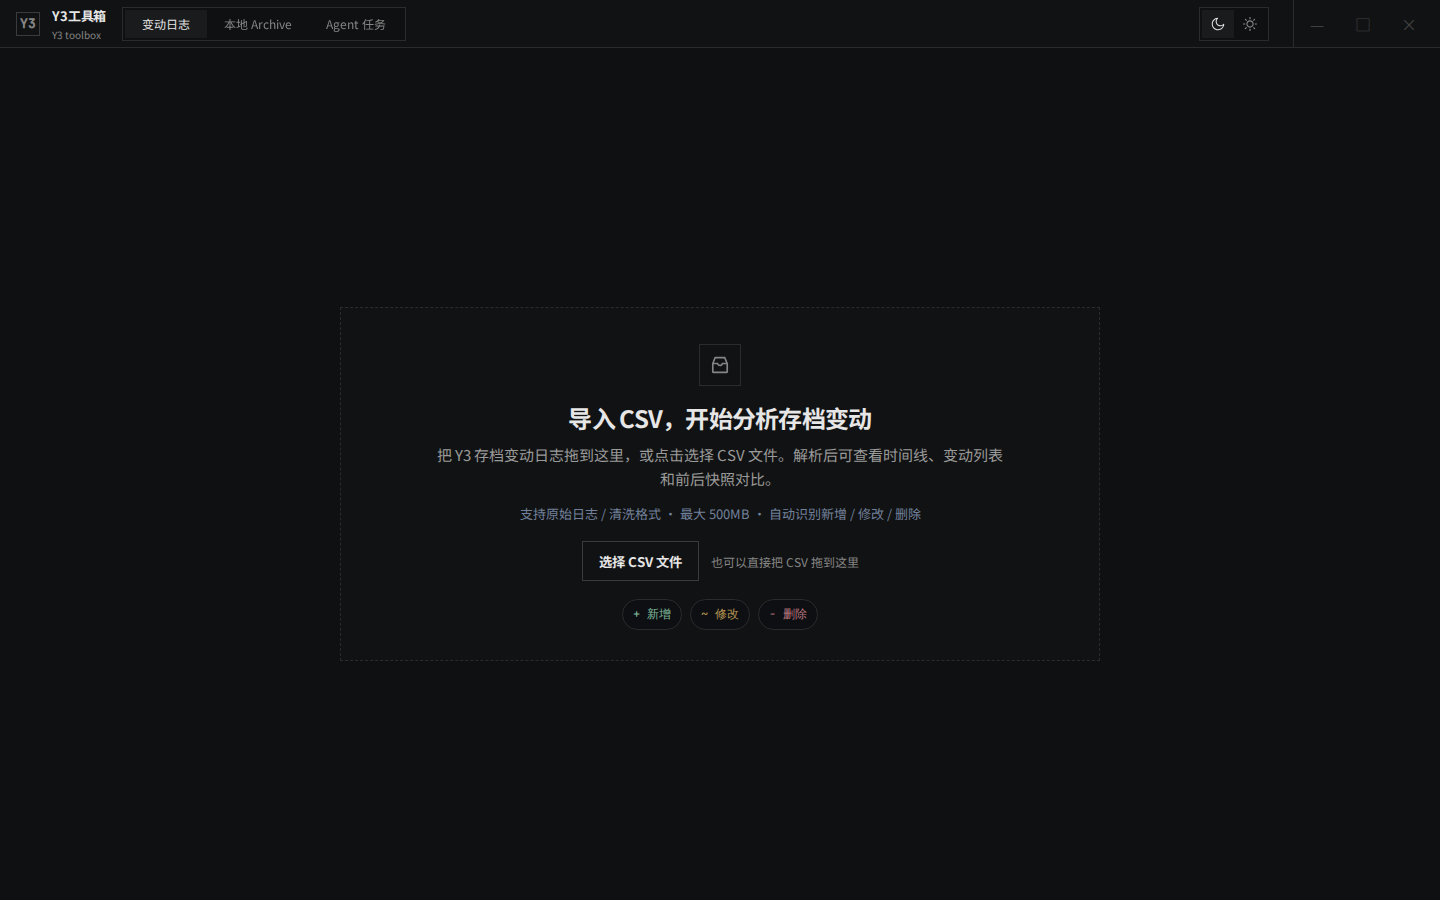
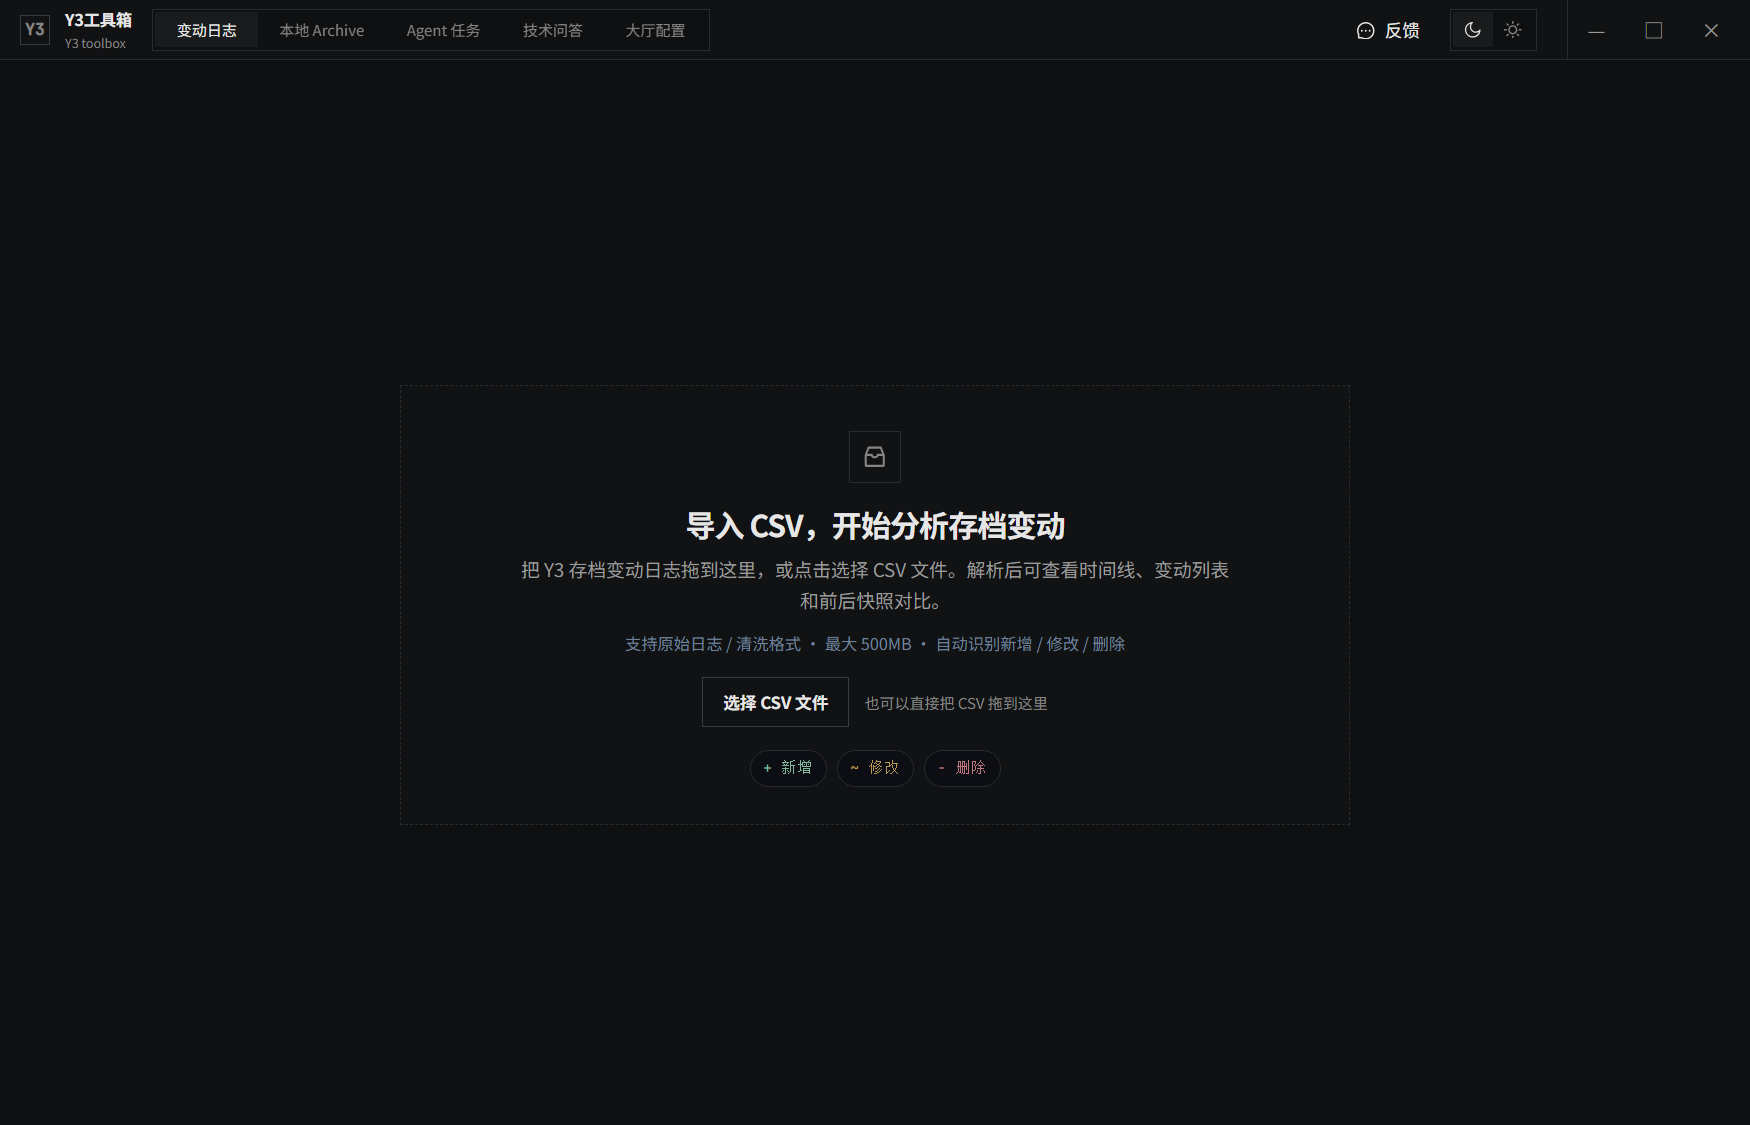
docs: refresh README for multi-module toolbox

diff --git a/README.md b/README.md
@@ -1,20 +1,52 @@
-# y3工具箱
+# Y3 工具箱
 
-`y3工具箱` 是面向 Y3 游戏服务器存档排查的桌面工具。它以 **Electron 桌面应用** 为主线，帮助你导入存档变动 CSV 或本地 Archive 数据，查看时间线、变动列表和前后快照差异。
+`Y3 工具箱` 是一个面向 Y3 地图作者、玩法脚本作者和技术排查人员的 Windows 桌面工具。它把本地存档诊断、任务服务、技术问答、大厅配置和反馈入口放在同一个工作区里，目标是让“查一份日志、看一个 Archive、问一个 ECA/Lua 问题、改一份大厅配置”这些高频操作都能在桌面端完成。
 
-![导入 CSV，开始分析存档变动](docs/assets/readme/archive-diff-import.png)
+应用以 Electron 桌面端为主线。本地 CSV / Archive / 大厅配置能力不依赖在线服务；Agent 任务中心、技术问答和反馈功能会连接各自独立的服务边界。
 
 ## 下载应用
 
-普通用户请从 **GitHub Releases** 下载正式发布包。下载 Windows 可执行文件后双击运行即可。当前首版更新方式是提示式更新：如果 Agent 任务中心检测到共享任务服务要求更高客户端版本，会暂停新的任务提交并给出 Releases 下载入口；本地 CSV / Archive 查看功能不受影响。
+普通用户请从 **GitHub Releases** 下载正式发布包。下载 Windows 可执行文件后双击运行即可。
+
+当前客户端采用提示式更新：当 Agent 任务中心检测到共享任务服务要求更高的客户端版本时，会暂停新的任务提交并给出 Releases 下载入口；已有的任务列表和结果仍可查看，本地 CSV / Archive / 大厅配置查看功能不受影响。
 
 ## 功能截图
 
 ### 变动日志工作台
 
-导入包含 `archive_diff` 的 CSV 后，工作台会生成时间线、变动列表、快照对比和状态栏统计。你可以按时间范围、存档键、变动类型或关键词筛选，下载整理后的 CSV，也可以基于目标时间生成可审核的存档回退 JSON 输入。
+导入包含 `archive_diff` 的 CSV 后，工作台会生成时间线、变动列表、前后快照对比和状态栏统计。你可以按时间范围、存档键、变动类型或关键词筛选，下载整理后的 CSV，也可以基于目标时间生成可审核的存档回退 JSON 输入。
 
-![变动日志时间线、变动列表和快照对比](docs/assets/readme/archive-diff-workbench.png)
+![变动日志工作台](docs/assets/readme/archive-diff-workbench.png)
+
+### 本地 Archive 查看
+
+本地 Archive 页面支持打开单个 Archive JSON 或 Y3 项目目录，以只读方式浏览玩家、Slot 列表和结构化 Slot 详情，不会修改你的项目文件。
+
+![本地 Archive 查看](docs/assets/readme/local-archive-viewer.png)
+
+### Agent 任务中心
+
+任务中心用于提交共享任务服务中受控范围的任务，例如拉取存档变动日志、拉取不同步日志、导出 kkres 高分辨率图片资源，并在这里查看实时进度、执行日志和下载产物。
+
+![Agent 任务中心](docs/assets/readme/agent-job-center.png)
+
+### 技术问答
+
+技术问答是独立的 Y3 Editor 2.0 问答工作区，覆盖 `ECA / 编辑器` 和 `Lua / y3-lualib`。回答由服务端模型结合受治理的证据生成，并支持引用来源、诊断附件、取消与重试。
+
+![技术问答](docs/assets/readme/technical-qa.png)
+
+### 大厅配置
+
+大厅配置从选定的 Y3 源码项目读取 `match.json` 与 `dungeon.json`，提供副本进入设置、匹配规则、分数段、阵营人数等编辑能力，并在写入前做校验、预览和关闭编辑器确认。
+
+![大厅配置](docs/assets/readme/lobby-config.png)
+
+### 反馈
+
+反馈是独立的匿名入口，用于提交工具箱相关的 Bug 和功能建议；Y3 编辑器相关问题也可提交，但不保证及时处理。
+
+![反馈](docs/assets/readme/feedback.png)
 
 ### 纸面主题
 
@@ -22,19 +54,16 @@
 
 ![纸面主题下的变动日志工作台](docs/assets/readme/archive-diff-paper.png)
 
-### 本地 Archive 查看
+## 页面导览
 
-本地 Archive 页面支持打开单个 Archive JSON 或 Y3 项目目录，以只读方式浏览玩家、Slot 列表和结构化 Slot 详情。
-
-![本地 Archive 玩家和 Slot 查看](docs/assets/readme/local-archive-viewer.png)
-
-## 你可以用它做什么
-
-- **分析存档变动日志**：导入包含 `archive_diff` 的 CSV，自动识别 `create` / `update` / `delete` / `noop`。
-- **查看本地 Archive**：打开 Y3 项目的 Archive JSON 或项目目录，按玩家/槽位查看本地存档结构。
-- **对比快照变化**：生成时间线、变动列表和前后快照对比，快速定位某个 key 在什么时间发生了变化。
-- **生成回退输入**：对单个玩家的变动日志，按目标时间后第一次变动的旧值推算可证明的槽位片段，并导出 JSON 供人工审核或后续工具使用；应用本身不会写回存档。
-- **切换阅读主题**：在深灰 / 纸面主题之间切换，适配暗色排查和浅色文档截图。
+| 页面 | 用途 | 适合场景 |
+|---|---|---|
+| 变动日志 | 导入 CSV 并分析 `archive_diff` 时间线、快照差异和回退输入 | 已拿到存档变动 CSV |
+| 本地 Archive | 打开 Archive JSON 或项目目录，只读查看本地存档结构 | 本机已有存档文件或项目目录 |
+| Agent 任务 | 提交固定范围的共享服务任务并查看结果与下载产物 | 拉取日志、导出 kkres 资源 |
+| 技术问答 | 询问 Y3 Editor 2.0 的 ECA 或 Lua 技术问题 | 查用法、定位问题或分析诊断材料 |
+| 大厅配置 | 编辑并安全写入 `match.json` 与 `dungeon.json` | 调整副本、匹配规则和房间设置 |
+| 反馈 | 提交 Bug 或功能建议 | 报告问题或描述改进期望 |
 
 ## 快速开始：运行桌面应用
 
@@ -47,11 +76,13 @@ npm ci
 npm run dev:electron
 ```
 
-## 导入数据
+## 各功能入口
 
 ### 变动日志 CSV
 
 在 **变动日志** 页面点击“选择 CSV 文件”，或把 CSV 拖到页面中间的导入卡片。CSV 可以是包含 `archive_diff` 的原始日志导出、清洗后的变动数据，或包含 `matched_log_raw` 的检测结果 CSV。
+
+![导入 CSV](docs/assets/readme/archive-diff-import.png)
 
 支持重点：
 
@@ -67,22 +98,33 @@ npm run dev:electron
 
 ### Agent 任务中心
 
-任务中心会连接应用配置的任务服务，用于提交拉取日志或导出资源等任务。普通用户只需要从 Releases 下载应用并按页面提示填写参数；如果任务服务不可用，页面会显示当前服务/队列状态。任务中心还会读取服务端公开的 release 兼容信息：客户端过旧、兼容信息缺失或异常时，已有任务列表和结果仍可查看，但新的任务提交会被禁用并提示下载最新版本。
+任务中心会连接应用配置的任务服务，用于提交固定范围的任务并查看进度。普通用户只需要从 Releases 下载应用并按页面提示填写参数；如果任务服务不可用，页面会显示当前服务/队列状态。任务中心还会读取服务端公开的 release 兼容信息：客户端过旧、兼容信息缺失或异常时，已有任务列表和结果仍可查看，但新的任务提交会被禁用并提示下载最新版本。
+
+任务中心当前覆盖以下用户任务：
+
+- 拉取存档变动日志。
+- 拉取不同步日志。
+- 导出 kkres 高分辨率图片资源。
+
+`导出 kkres 图片` 任务会把本机图片先上传到暂存区，再把 `staging:` 标识交给任务服务；不会把本机路径、Token 或项目目录上传给任务服务。请在导入正式项目前先导入测试项目确认资源管理器和 UI 编辑器显示正常，并做好项目备份。
 
 ### 技术问答
 
-`技术问答` 是独立于 Agent 任务中心的 Y3 Editor 2.0 问答工作区，覆盖 `ECA / 编辑器` 和 `Lua / y3-lualib`。每次回答都会由服务端模型结合受治理的证据生成，不会把检索结果直接当作答案。工作区支持引用来源、诊断附件、取消与重试，并在服务不可用时保留当前草稿和会话历史。
+`技术问答` 独立于 Agent 任务中心，是 Y3 Editor 2.0 问答工作区。每次回答都会由服务端模型结合受治理的证据生成，不会把检索结果直接当作答案。
 
 使用范围、附件限制、回答状态和明确不支持的能力见 [技术问答使用说明](docs/technical-qa.md)。
 
-## 页面导览
+### 大厅配置
 
-| 页面 | 用途 | 适合场景 |
-|---|---|---|
-| 变动日志 | 导入 CSV 并分析 `archive_diff` 时间线和快照差异 | 已拿到存档变动 CSV |
-| 本地 Archive | 打开 Archive JSON 或项目目录，查看本地存档结构 | 本机已有存档文件或项目目录 |
-| Agent 任务 | 提交固定范围的共享服务任务并查看结果 | 拉取日志或导出资源 |
-| 技术问答 | 询问 Y3 Editor 2.0 的 ECA 或 Lua 技术问题 | 查用法、定位问题或分析明确上传的诊断材料 |
+`大厅配置` 只读取所选 Y3 源码项目的大厅配置，并且只写入 `match.json` 和 `dungeon.json`。工具不会创建持久备份；写入前请自行备份项目，并确认已完全关闭 Y3 编辑器，因为编辑器运行时会用内存中的旧配置覆盖外部修改。
+
+详细使用方式见 [大厅配置使用说明](docs/lobby-config.md)。
+
+### 反馈
+
+`反馈` 是独立的匿名入口，主要用于接收 Y3 工具箱相关的 Bug 和功能建议。提交成功只表示反馈已收到，不会返回工单号、状态追踪链接或处理进度承诺。
+
+详细说明见 [反馈使用说明](docs/feedback.md)。
 
 ## 开发者命令
 
@@ -98,9 +140,14 @@ npm run preview      # 本地预览生产构建
 
 ## 项目结构速览
 
-- `electron/main.ts` — Electron 主进程：窗口、IPC、本地文件读取、Archive 输入读取。
+- `electron/main.ts` — Electron 主进程：窗口、IPC、本地文件读取、Archive 输入读取、大厅配置读写。
 - `electron/preload.ts` — 安全桥接 `window.electronAPI`。
 - `src/parser/` — CSV 与 archive diff 解析。
 - `src/engine/` — 快照和 diff 行构建。
-- `src/components/` / `src/hooks/` — React UI 与状态管理。
+- `src/components/` / `src/hooks/` — 变动日志工作台 UI 与状态管理。
 - `src/archiveViewer/` — 本地 Archive 查看。
+- `src/recovery/` — 存档回退输入生成与预览。
+- `src/agentJobs/` — Agent 任务中心、任务状态和产物下载。
+- `src/technicalQa/` — Y3 Editor 2.0 技术问答工作区。
+- `src/lobbyConfig/` — 大厅配置编辑、校验与写入。
+- `src/feedback/` — 匿名反馈表单与附件处理。

diff --git a/docs/feedback.md b/docs/feedback.md
@@ -1,0 +1,51 @@
+# 反馈使用说明
+
+`反馈` 是工具箱中的独立入口，主要用于接收 Y3 工具箱相关的 Bug 和功能建议。它不依赖 Agent 任务中心或技术问答，也不提供工单号、状态追踪链接或处理进度承诺。
+
+## 提交范围
+
+- `遇到了 Bug`：描述你在工具箱中遇到的问题。
+- `有功能建议`：描述你希望工具箱改进的地方。
+
+Y3 编辑器相关问题也可以提交，但不保证及时处理。请避免提交包含敏感信息的项目内容、账号凭据或本地文件路径。
+
+## 必填内容
+
+提交时只需填写：
+
+- 反馈类型。
+- 标题：Bug 用一句话概括问题，建议用一句话概括改进。
+- 主描述：Bug 描述发生了什么；建议描述希望怎么改进。
+
+其余字段放在“补充信息（可选）”中，留空也可以提交。
+
+## Bug 附件
+
+只有提交 Bug 时可以添加截图或日志：
+
+- 支持日志、Trace、文本或 JSON：单个文件不超过 2 MiB。
+- 支持 PNG、JPEG、WebP 截图：单张不超过 8 MiB。
+- 每次最多 5 个附件，总大小不超过 16 MiB。
+- 空文件、重复文件、包含本地路径的文件名和不支持的格式会被拒绝。
+
+附件只用于本次显式反馈，不会授予服务访问项目目录或其他本地文件的能力。
+
+## 隐私说明
+
+提交时客户端只会附带固定范围内的元数据，不会上传：
+
+- 本地路径。
+- Token 或凭据。
+- 项目内容。
+- 设备指纹。
+
+提交成功只表示反馈已收到，不会返回工单号或跟踪标识。
+
+## 提交状态与草稿保留
+
+- `提交中…`：正在校验、上传附件或提交。
+- `反馈已收到`：提交成功，已清空当前草稿。
+- 可重试失败：草稿和已选附件会保留，可以直接重试。
+- 不可重试失败：通常是内容或附件不符合规则，请按提示修改后重新提交。
+
+网络中断或提交结果不确定时，不要反复提交同一个问题，避免重复上传；可稍后重试。

diff --git a/docs/lobby-config.md b/docs/lobby-config.md
@@ -1,0 +1,44 @@
+# 大厅配置使用说明
+
+`大厅配置` 用于从选定的 Y3 源码项目读取并编辑 `match.json` 与 `dungeon.json`，只写回这两个大厅配置文件，不修改项目中的其他内容。
+
+## 打开项目
+
+进入 `大厅配置` 后，点击“选择 Y3 项目”，在系统目录选择器中选择 Y3 源码项目目录。
+
+应用会校验项目中的大厅配置文件：
+
+- 如果已有 `match.json` / `dungeon.json`，会载入当前配置。
+- 如果文件不存在，会创建待写入的新配置草稿。
+
+## 编辑范围
+
+工作区支持：
+
+- 副本进入设置：公开进入、私人进入、房间容量、允许中途加入时间。
+- 匹配设置：参与匹配、阵营人数、分数段扩散时间、机器人兜底时间、分数段与最低真人数。
+- 快捷预设：必须凑满真人、定时机器人补位、按分数段匹配。
+- 校验与 JSON 预览：右侧检查面板展示问题、`match.json` 和 `dungeon.json` 预览。
+
+## 保存前检查
+
+写入前应用会要求确认：
+
+- 已自行备份项目。
+- 已完全关闭 Y3 编辑器。
+- 当前配置没有阻止保存的错误。
+
+工具不会创建持久备份。Y3 编辑器运行时会用内存中的旧配置覆盖外部修改，因此请先关闭编辑器再保存。
+
+## 安全边界
+
+- 只读取所选项目的大厅配置。
+- 只写入 `match.json` 和 `dungeon.json`。
+- 写入前会做校验、预览和确认。
+- 遇到项目文件被外部修改时，保存会按版本冲突提示失败，避免覆盖他人刚写入的配置。
+
+## 注意事项
+
+- 大厅配置只支持桌面版；Web 模式没有本地项目访问能力。
+- 切换项目或关闭应用时，如果有未保存修改，会要求确认。
+- 保存成功后，仍建议在 Y3 编辑器里复核大厅行为。
